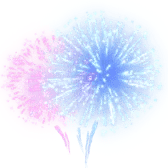
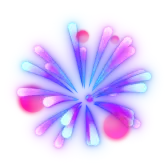
77

diff --git a/index.html b/index.html
@@ -116,25 +116,24 @@
   </div>
 
   <script>
-    // LISTA DE 17 ELEMENTOS CON SALTO DE LÍNEA (<br>)
     const regalos = [
       { archivo: "regalos/rosa.png", nombre: "Rosa", descripcion: "x5<br>Zombis" },
-      { archivo: "regalos/duit raya.png", nombre: "paquetes<br>verdes", descripcion: "luz roja<br>luz verde" },
-      { archivo: "regalos/Corazon Coreano.png", nombre: "corazón<br>coreano", descripcion: "Perk<br>Random" },
-      { archivo: "regalos/Saludo Personalizado.png", nombre: "Saludo<br>perso.", descripcion: "Quitar<br>un Perk" },
-      { archivo: "regalos/Pulsera de Equipo.png", nombre: "Pulsera de<br>Equipo", descripcion: "+1000<br>puntos" },
+      { archivo: "regalos/fuegos artificiales.png", nombre: "fuegos<br>artificiales", descripcion: "luz roja<br>luz verde" },
+      { archivo: "regalos/GG.png", nombre: "GG", descripcion: "Perk<br>Random" },
+      { archivo: "regalos/Helado.png", nombre: "Helado.", descripcion: "Quitar<br>un Perk" },
+      { archivo: "regalos/Corazon Coreano.png", nombre: "cozazòn<br>Coreano", descripcion: "+1000<br>puntos" },
       { archivo: "regalos/Globos.png", nombre: "Globos", descripcion: "Quitar<br>puntos" },
       { archivo: "regalos/Maracas.png", nombre: "Maracas", descripcion: "Doble<br>puntuación" },
-      { archivo: "regalos/Gorra.png", nombre: "Gorra", descripcion: "Reiniciar la<br>partida" },
+      { archivo: "regalos/Sombrero y bigote.png", nombre: "Sombrero y<br> bigote", descripcion: "Reinicio" },
       { archivo: "regalos/Rosa Blanca.png", nombre: "Rosa<br>Blanca", descripcion: "Munición<br>Máxima" },
-      { archivo: "regalos/Apoyo.png", nombre: "Apoyo", descripcion: "Quitar toda<br>la Munición" },
-      { archivo: "regalos/Pastel.png", nombre: "Pastel", descripcion: "Baja<br>Instantánea" },
-      { archivo: "regalos/creeper.png", nombre: "Creeper", descripcion: "Kaboom" },
+      { archivo: "regalos/alas de guardian.png", nombre: "Alas de Guardiàn", descripcion: "Arma<br>aleatoria" },
+      { archivo: "regalos/Pastel.png", nombre: "Pastel", descripcion: "Muerte<br>Instantánea" },
+      { archivo: "regalos/pop.png", nombre: "pop", descripcion: "Kaboom" },
       { archivo: "regalos/Te Adoro.png", nombre: "Te Adoro", descripcion: "potenciador<br>aleatorio" },
-      { archivo: "regalos/Corazon.png", nombre: "Corazon", descripcion: "Controles<br>Congelados" },
+      { archivo: "regalos/Corazón.png", nombre: "Corazón", descripcion: "Controles<br>Congelados" },
       { archivo: "regalos/Capibara.png", nombre: "Capibara", descripcion: "subir a<br>Ronda 50" },
       { archivo: "regalos/Dona.png", nombre: "Dona", descripcion: "Me quita<br>todas las perks" },
-      { archivo: "regalos/exageracion.png", nombre: "Exageración", descripcion: "Ruleta<br>extrema" }
+      { archivo: "regalos/collar de amistad.png", nombre: "collar de<br> amistad", descripcion: "Ruleta<br>extrema" }
     ];
 
     const contenedor = document.getElementById('contenedor');
